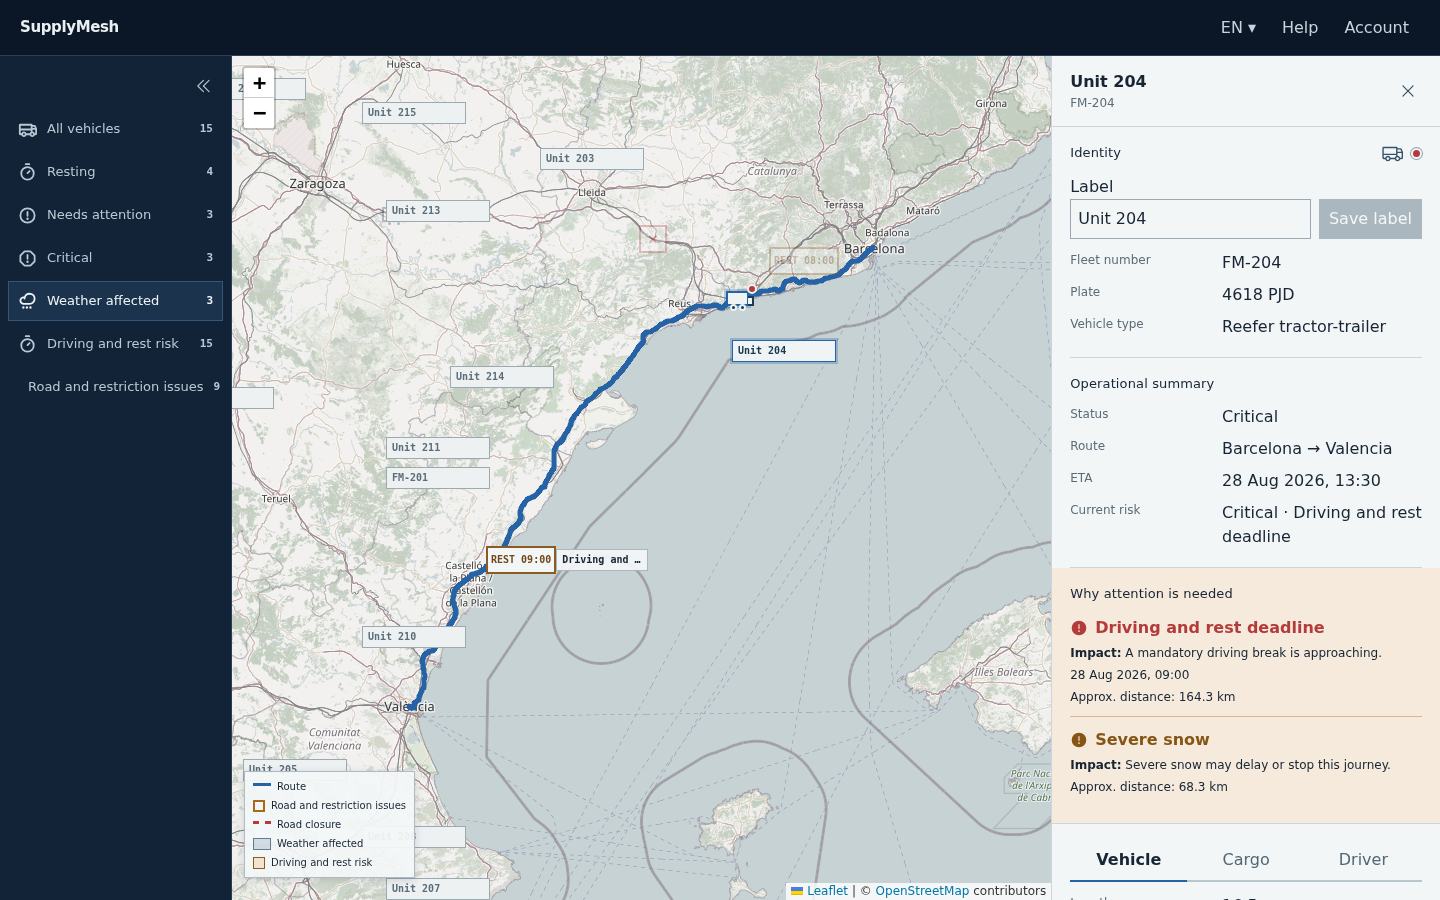
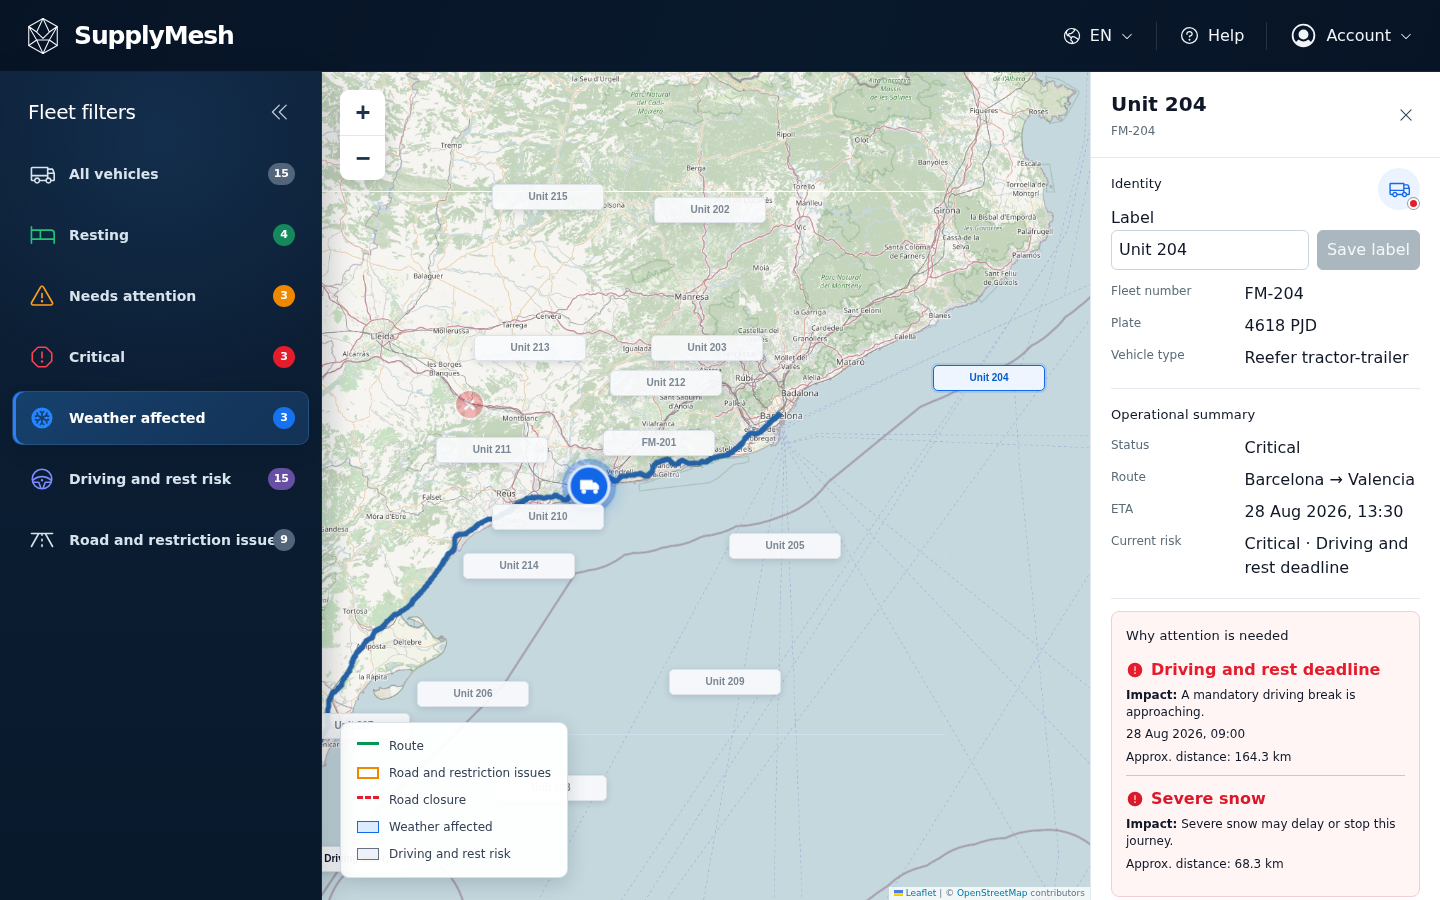
test(ui): refresh final visual evidence

diff --git a/e2e/operational-console.spec.ts b/e2e/operational-console.spec.ts
@@ -82,17 +82,35 @@ async function capture(page: Page, name: string): Promise<void> {
   await page.screenshot({ animations: "disabled", path: path.join(process.cwd(), "docs/evidence/phase1-1", name) });
 }
 
+async function assertOverviewLabelsHidden(page: Page): Promise<void> {
+  await expect(page.locator(".fleet-label-icon")).toHaveCount(15);
+  await expect(page.locator(".fleet-map")).not.toHaveClass(/map-labels-visible/);
+  await expect(page.locator(".fleet-label-icon:visible")).toHaveCount(0);
+}
+
+async function revealVehicleLabels(page: Page): Promise<void> {
+  await page.locator(".leaflet-control-zoom-in").click();
+  await expect(page.locator(".fleet-map")).toHaveClass(/map-labels-visible/);
+  await expect.poll(async () => page.locator(".fleet-label-icon").evaluateAll((roots) => roots.filter((root) => {
+    const style = getComputedStyle(root);
+    return style.opacity === "1" && style.visibility === "visible";
+  }).length)).toBe(15);
+}
+
 async function assertCollisionFreeLabels(page: Page): Promise<void> {
   await expect.poll(async () => page.evaluate(() => {
-    const roots = [...document.querySelectorAll<HTMLElement>(".fleet-label-icon")];
+    const roots = [...document.querySelectorAll<HTMLElement>(".fleet-label-icon")].filter((root) => {
+      const style = getComputedStyle(root);
+      return style.opacity === "1" && style.visibility === "visible";
+    });
     const obstacles = [...document.querySelectorAll<HTMLElement>(".fleet-truck-icon, .risk-marker")];
     const intersects = (left: DOMRect, right: DOMRect): boolean => left.left < right.right && left.right > right.left && left.top < right.bottom && left.bottom > right.top;
     const collisions = roots.flatMap((root, index) => {
       const rect = root.getBoundingClientRect();
       return [...roots.slice(index + 1), ...obstacles].filter((other) => intersects(rect, other.getBoundingClientRect())).map((other) => `${root.title}|${other.title || other.className}`);
     });
-    return { collisions, count: roots.length, opaque: roots.every((root) => getComputedStyle(root).opacity === "1"), overflow: roots.some((root) => { const label = root.querySelector<HTMLElement>(".fleet-marker-label")!; return label.scrollWidth > label.clientWidth; }), visible: roots.filter((root) => root.getBoundingClientRect().width > 0).length };
-  })).toEqual({ collisions: [], count: 15, opaque: true, overflow: false, visible: 15 });
+    return { collisions, count: roots.length, overflow: roots.some((root) => { const label = root.querySelector<HTMLElement>(".fleet-marker-label")!; return label.scrollWidth > label.clientWidth; }) };
+  })).toEqual({ collisions: [], count: 15, overflow: false });
 }
 
 test.beforeEach(async ({ page }) => page.emulateMedia({ reducedMotion: "reduce" }));
@@ -126,6 +144,7 @@ test("should preserve exactly four WebMCP schemas, responses, parity, and cleanu
   expect(await executeTool(page, "vehicle_rename", { vehicleId: "vehicle-002", label: "" })).toMatchObject({ ok: false, error: { code: "invalid-input" } });
   expect(await executeTool(page, "vehicle_rename", { vehicleId: "vehicle-002", label: "N".repeat(65) })).toMatchObject({ ok: false, error: { code: "invalid-label" } });
   expect(await executeTool(page, "vehicle_rename", { vehicleId: "vehicle-002", label: "Native parity" })).toMatchObject({ ok: true, data: { label: "Native parity" } });
+  await revealVehicleLabels(page);
   await expect(page.getByRole("button", { name: "Native parity", exact: true })).toBeVisible();
   expect(await executeTool(page, "vehicle_get", { vehicleId: "vehicle-002" })).toMatchObject({ ok: true, data: { label: "Native parity" } });
   await page.evaluate(() => window.dispatchEvent(new Event("beforeunload")));
@@ -144,8 +163,10 @@ test("should complete the desktop filters, map, inspection, locale, and restorat
   await expect(page.locator(".fleet-truck-icon")).toHaveCount(15);
   await expect(page.locator(".fleet-label-icon")).toHaveCount(15);
   await expect(page.locator(".route-corridor")).toHaveCount(15);
+  await assertOverviewLabelsHidden(page);
+  await revealVehicleLabels(page);
   await assertCollisionFreeLabels(page);
-  await expect(page.locator(".risk-marker-symbol")).toHaveCount(19);
+  await expect(page.locator(".risk-marker-symbol")).toHaveCount(4);
   await expect(page.locator(".risk-marker-label:visible")).toHaveCount(0);
   const panes = await page.evaluate(() => ["risk-tokens", "fleet-trucks", "fleet-labels"].map((name) => Number(getComputedStyle(document.querySelector<HTMLElement>(`.leaflet-${name}-pane`)!).zIndex)));
   expect(panes).toEqual([620, 640, 660]);
@@ -178,6 +199,7 @@ test("should complete the desktop filters, map, inspection, locale, and restorat
   await inspection.getByRole("button", { name: "Save label" }).click();
   await expect(page.getByRole("button", { name: "Release Dispatch", exact: true })).toBeVisible();
   await page.reload();
+  await revealVehicleLabels(page);
   await expect(page.getByRole("button", { name: "Release Dispatch", exact: true })).toBeVisible();
   await page.getByRole("button", { name: "Language" }).click();
   await page.getByRole("menuitem", { name: "Español" }).click();
@@ -202,7 +224,7 @@ test("should complete the desktop filters, map, inspection, locale, and restorat
   await expect(page.getByRole("button", { name: "Select Unit 204" })).toHaveCount(0);
 });
 
-test("should keep tablet dialogs accessible, contained, and focus-restoring", async ({ page }) => {
+test("should keep tablet drawers accessible, contained, and focus-restoring", async ({ page }) => {
   await installModelContextSeam(page);
   await resetApplication(page, 900, 900);
   await page.getByRole("button", { name: "Weather affected" }).click();
@@ -225,7 +247,8 @@ test("should keep tablet dialogs accessible, contained, and focus-restoring", as
   await expect(results).toBeVisible();
   await expect(results.getByRole("button", { name: "Select Unit 204" })).toBeFocused();
   await results.getByRole("button", { name: "Close results" }).click();
-  await expect(page.getByRole("heading", { name: "Operational overview" })).toBeVisible();
+  await expect(page.getByRole("button", { name: "Open operational overview" })).toBeVisible();
+  await expect(page.getByRole("dialog", { name: "Operational overview" })).toHaveCount(0);
   const overflow = await page.evaluate(() => ({ body: document.body.scrollWidth, viewport: window.innerWidth }));
   expect(overflow.body).toBeLessThanOrEqual(overflow.viewport);
 });
@@ -246,11 +269,11 @@ test("should suppress nonessential motion and exclude prohibited or Phase 2 chro
 test("should capture exactly the six accepted real-application evidence states", async ({ page }) => {
   await installModelContextSeam(page);
   await resetApplication(page, 1440, 900);
-  await assertCollisionFreeLabels(page);
+  await assertOverviewLabelsHidden(page);
   await capture(page, "desktop-overview.png");
   await resetApplication(page, 1440, 900);
   await page.getByRole("button", { name: "Weather affected" }).click();
-  await assertCollisionFreeLabels(page);
+  await assertOverviewLabelsHidden(page);
   await capture(page, "desktop-weather-filter.png");
   await resetApplication(page, 1440, 900);
   await selectUnit204(page);
@@ -258,7 +281,7 @@ test("should capture exactly the six accepted real-application evidence states",
   await resetApplication(page, 1440, 900);
   await page.getByRole("button", { name: "Weather affected" }).click();
   await page.getByRole("button", { name: "Critical" }).click();
-  await assertCollisionFreeLabels(page);
+  await assertOverviewLabelsHidden(page);
   await capture(page, "desktop-two-filters.png");
   await resetApplication(page, 900, 900);
   await page.getByRole("button", { name: "Weather affected" }).click();

diff --git a/docs/evidence/phase1-1/visual-comparison.md b/docs/evidence/phase1-1/visual-comparison.md
@@ -1,33 +1,42 @@
-# Phase 1.1 visual evidence verdict
+# Phase 1.1 final visual evidence
 
-**Verdict: PASS.** All six images are genuine application output at the required viewports. The correction preserves every fixture coordinate and all 15 truck/label pairs while removing tested label intersections and compacting aggregate risk context.
+**Verdict: PASS.** The six captures are genuine output from the final SupplyMesh application state. They reflect the completed desktop and tablet UI/UX iteration without domain or WebMCP contract changes.
 
 ## Evidence conditions
 
-- Chromium rendered the application, accepted ORS fixtures, and live token-free OpenStreetMap tiles after cleared storage, reduced-motion emulation, font readiness, and visible-tile completion.
-- Desktop images are 1440×900; tablet images are 900×900. No canvas, mockup, background substitute, hidden marker, or image-composited UI was used.
-- Comparison authority is the supplied logistics-console references and Phase 1.1 written brief; composition and hierarchy govern rather than pixel matching.
+- Chromium rendered the production build with cleared storage, reduced-motion emulation, loaded fonts, and completed OpenStreetMap tiles.
+- Desktop captures are 1440×900. Tablet captures are 900×900.
+- The evidence test drives the real filters, vehicle selection, route focus, drawers, and responsive layout. No mockup, canvas replacement, or composited UI image is used.
+- Animations are disabled only while taking deterministic screenshots. The live application retains smooth compositor-based panel motion and selected-vehicle breathing feedback.
 
 ## State comparison
 
-| State | Verdict | Critical comparison |
+| State | Verdict | Final behavior |
 |---|---|---|
-| Desktop overview | PASS | The 56px topbar, compact rail, Spain map, and overview panel retain the reference hierarchy. Fifteen trucks and fifteen opaque labels remain visible; deterministic screen-space placement keeps labels inside the map and clear of labels, trucks, and compact risks. REST+time, `3.9m`, `26t`, closure, and `SNOW` tokens preserve risk meaning without verbose text blocks. |
-| Desktop Weather affected | PASS | Expanded rail and three-card result panel are proportionate. Only severe snow receives matched emphasis; unrelated risks remain compact muted context. All secondary fleet labels stay readable and collision-free without competing with matched trucks. |
-| Desktop selected route/risk | PASS | Unit 204, the plausible Barcelona→Valencia blue corridor, selected REST risk, severe-snow context, and inspection hierarchy remain prominent. Selected risk text expands while aggregate risks stay compact; route geometry is unchanged. |
-| Desktop two filters | PASS | Weather + Critical chips, five deduplicated priority results, and severity badges are explicit. Vehicle labels remain collision-free and risk emphasis follows the active Weather risk category rather than every matched vehicle. |
-| Tablet results | PASS | The contained results dialog, expanded rail, dimmed map, three Weather results, attribution, and close action remain usable with no horizontal overflow. The intentionally narrow map strip is contextual rather than a primary interaction surface. |
-| Tablet detail | PASS | The 560×720 inspection remains viewport-contained and readable. Identity, summary, and risks lead; keyboard/browser scrolling reaches tabs and Actions, verified by Playwright. |
+| Desktop overview | PASS | The 72px operational topbar, compact fleet rail, map-first workspace, and overview cards preserve a clear three-surface hierarchy. All 15 trucks remain visible, while vehicle labels stay hidden at the Spain overview and appear from zoom 7.5 to prevent map clutter. |
+| Desktop weather filter | PASS | The expanded rail and result cards remain proportionate without shrinking the map unnecessarily. Severe weather is shown as a blue translucent dashed affected zone with a snowflake icon, not a textual SNOW token. |
+| Desktop selected route/risk | PASS | Unit 204, its selected corridor, contextual risk detail, and inspection hierarchy remain prominent. Only the selected truck's rest deadline is shown, and the selected marker keeps a stable truck icon with an accessible breathing aura in live motion. |
+| Desktop two filters | PASS | Weather + Critical chips produce five deduplicated priority results with clear severity. Muted and matched map states preserve operational context without exposing overview labels prematurely. |
+| Tablet results | PASS | The 72px compact rail and map remain the primary surface. Filter results open in a dismissible right drawer, the legend stays compact, and the expanded left rail is never left competing with the right panel. |
+| Tablet detail | PASS | Vehicle inspection opens as a contained right drawer over the map-first workspace. Identity, summary, risks, tabs, actions, scrolling, close behavior, and focus restoration remain usable at 900×900. |
 
 ## Cross-state findings
 
-- **Composition/proportions:** desktop and tablet structures match the map-dominant logistics-console brief.
-- **Trucks/labels:** all 15 pairs remain accessible and visible; stable placement prevents label-label, label-truck, and label-risk intersections in required desktop states. Wide offsets can separate a label from its truck, but ordering is deterministic and identity remains explicit.
-- **Routes/risks:** selected road geometry is plausible and unchanged. Compact aggregate tokens plus expanded selected risks provide clear severity and context.
-- **Spain viewport:** Spain remains centered with useful Iberian, southern-France, and North-Africa context.
-- **Panels/filters/density:** cards, chips, result ordering, drawer hierarchy, and muted context support rapid scanning without overflow.
-- **Forbidden decoration:** no gradients, glassmorphism, giant metrics, sparkles, bottom bar, agent/chat chrome, canvas substitution, or Phase 2 controls appear.
+- **Responsive composition:** desktop preserves the full operational workspace; tablet uses a dedicated map-first layout rather than three compressed columns.
+- **Map controls:** zoom controls and the legend move clear of the expanded rail and retain reduced-motion behavior.
+- **Labels:** overview clutter is prevented through zoom-gated visibility; screen-space placement uses the rendered 112×30 label footprint.
+- **Risks:** rest deadlines are contextual to the selected truck, and severe weather uses an icon-led colored area.
+- **Motion:** rail and drawer transitions use compositor-friendly transforms. The selected truck aura expands and contracts symmetrically while the truck remains stable.
+- **Accessibility:** localized controls, semantic drawers, keyboard focus restoration, and reduced-motion fallbacks remain covered.
+- **Scope:** no domain model, scenario contract, WebMCP tool, backend, routing provider, or Phase 2 capability was added.
 
-## Limitations
+## Final verification
 
-Tablet results intentionally prioritize the modal over the map, and tablet detail requires scrolling for tabs/actions. Overview labels may use wider offsets at dense points, but remain deterministic, contained, readable, and fully present.
+- ESLint: passed.
+- TypeScript project build: passed.
+- Vitest: **92/92 passed** across 20 files.
+- Playwright operational and production scenarios: **8/8 passed**.
+- ORS checked-in route verification: passed.
+- Production Vite build: passed.
+- Scope guard: no pending changes under `src/domain` or `src/platform/webmcp`.
+- The existing Vite chunk-size advisory remains non-blocking.
